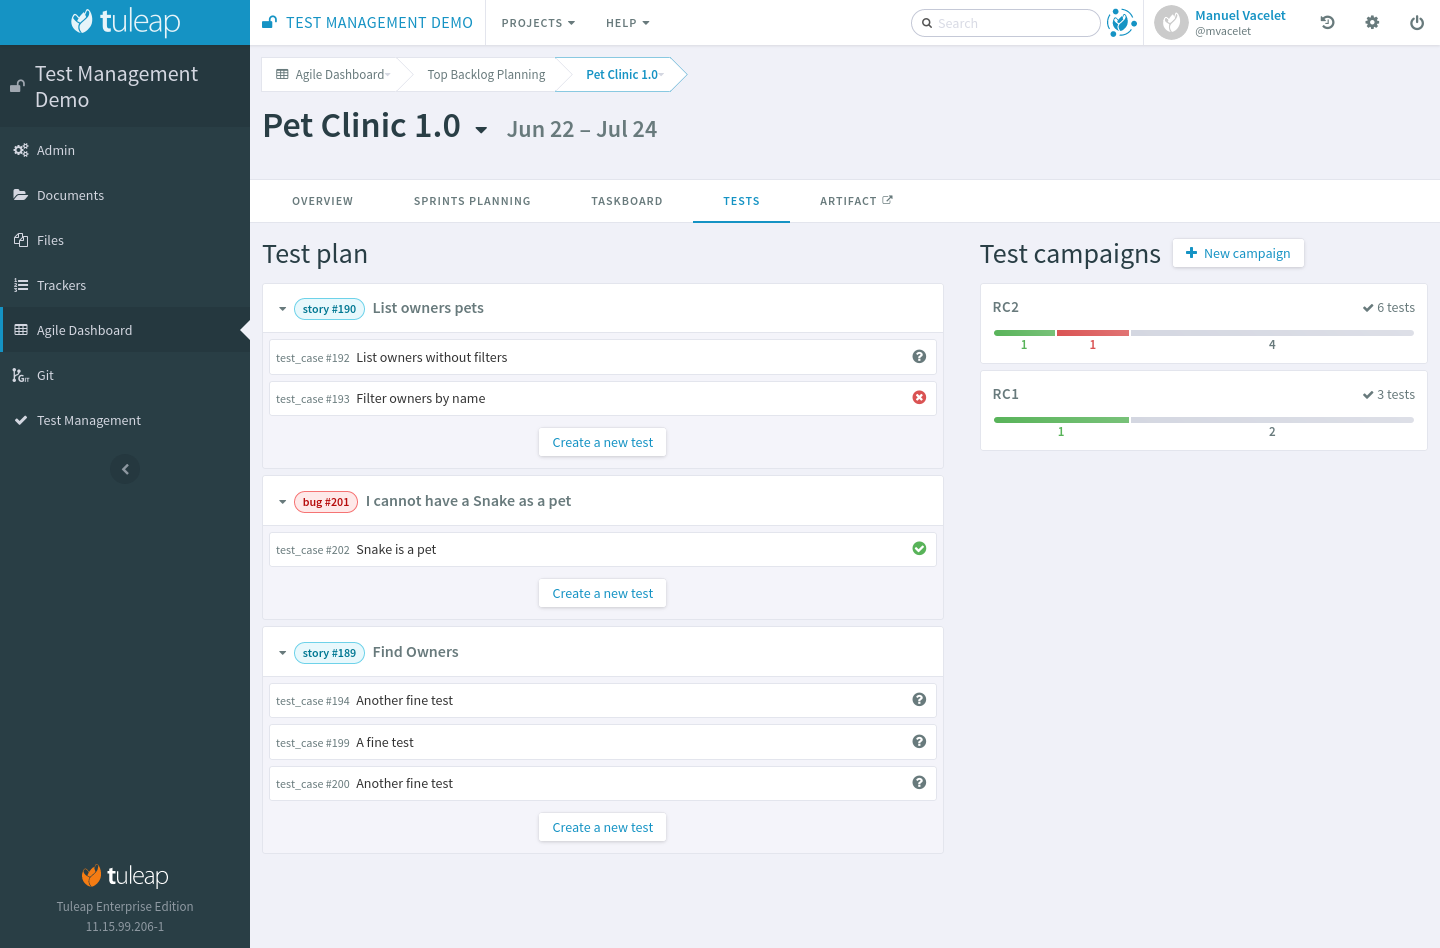
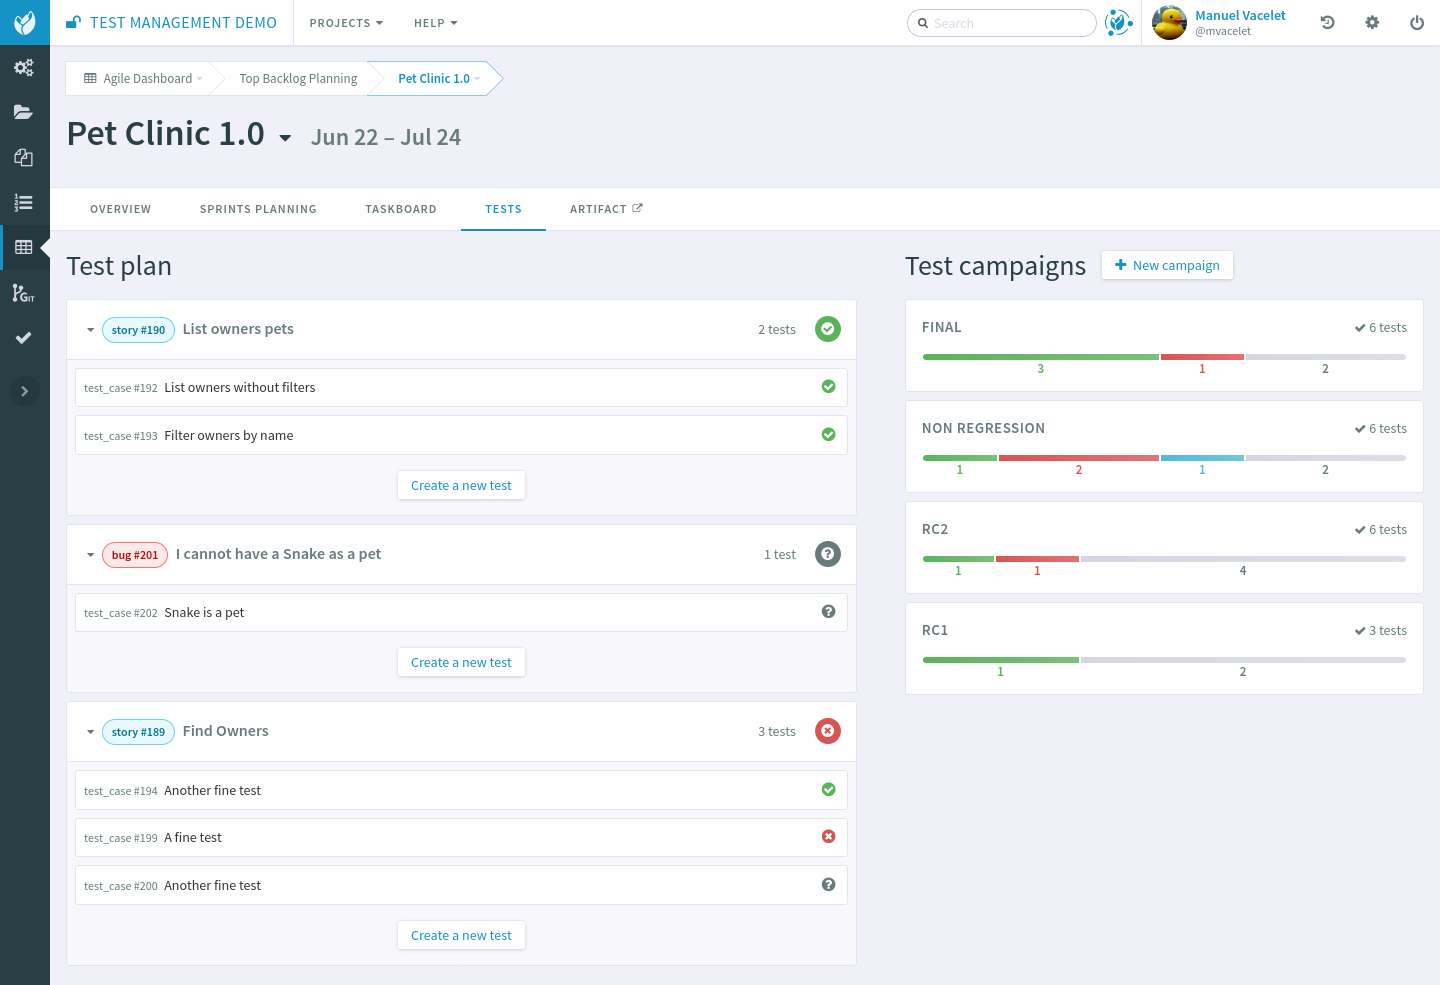
Add documentation about backlog item status

diff --git a/languages/en/user-guide/testmanagement.rst b/languages/en/user-guide/testmanagement.rst
@@ -213,8 +213,9 @@ Link tests with requirements / user stories
 
 .. warning::
 
-    This feature is under development. This covers what's available in Tuleap 11.16 release. Shall you want to know
-    what's cooking for next release, please have a look at `Test Plan Epic <https://tuleap.net/plugins/tracker/?aid=14871>`_.
+    This feature is under heavy development, most the documentation covers what's available in 11.16.
+
+    The part related to coverage of backlog items is available starting 11.17.
 
 If your project also uses the Scrum backlog of Agile Dashboard service, a "Tests" tab will be added to milestones.
 
@@ -256,6 +257,19 @@ in "RC2" campaign but it might have *passed* in RC1 campaign.
    :align: center
    :alt: Status of tests that cover a user story
    :name: Status of tests that cover a user story
+
+The backlog item status is computed out of the tests that covers it as show in the the screenshot above. The rules are (order matters):
+
+#. If there are no tests, there is no status associated to the backlog item.
+#. If at least one test final status is **failed**, the backlog item status is **failed**.
+#. If no failure but at least one test final status is **blocked**, the backlog item status is **blocked**.
+#. If no failure and no blocked but at least one test final status is **not run** or test is **not planned**, the backlog item status is **not run**.
+#. If all tests final status are **passed**, the backlog item status is **passed**.
+
+.. note::
+
+    In this context as test **not planned** means that the test was created or linked to the backlog item but no campaigns
+    exists with this test yet.
 
 Tests can be either manual or automated (see :ref:`Test Automation <testmgmt_automation>` section below)
 
